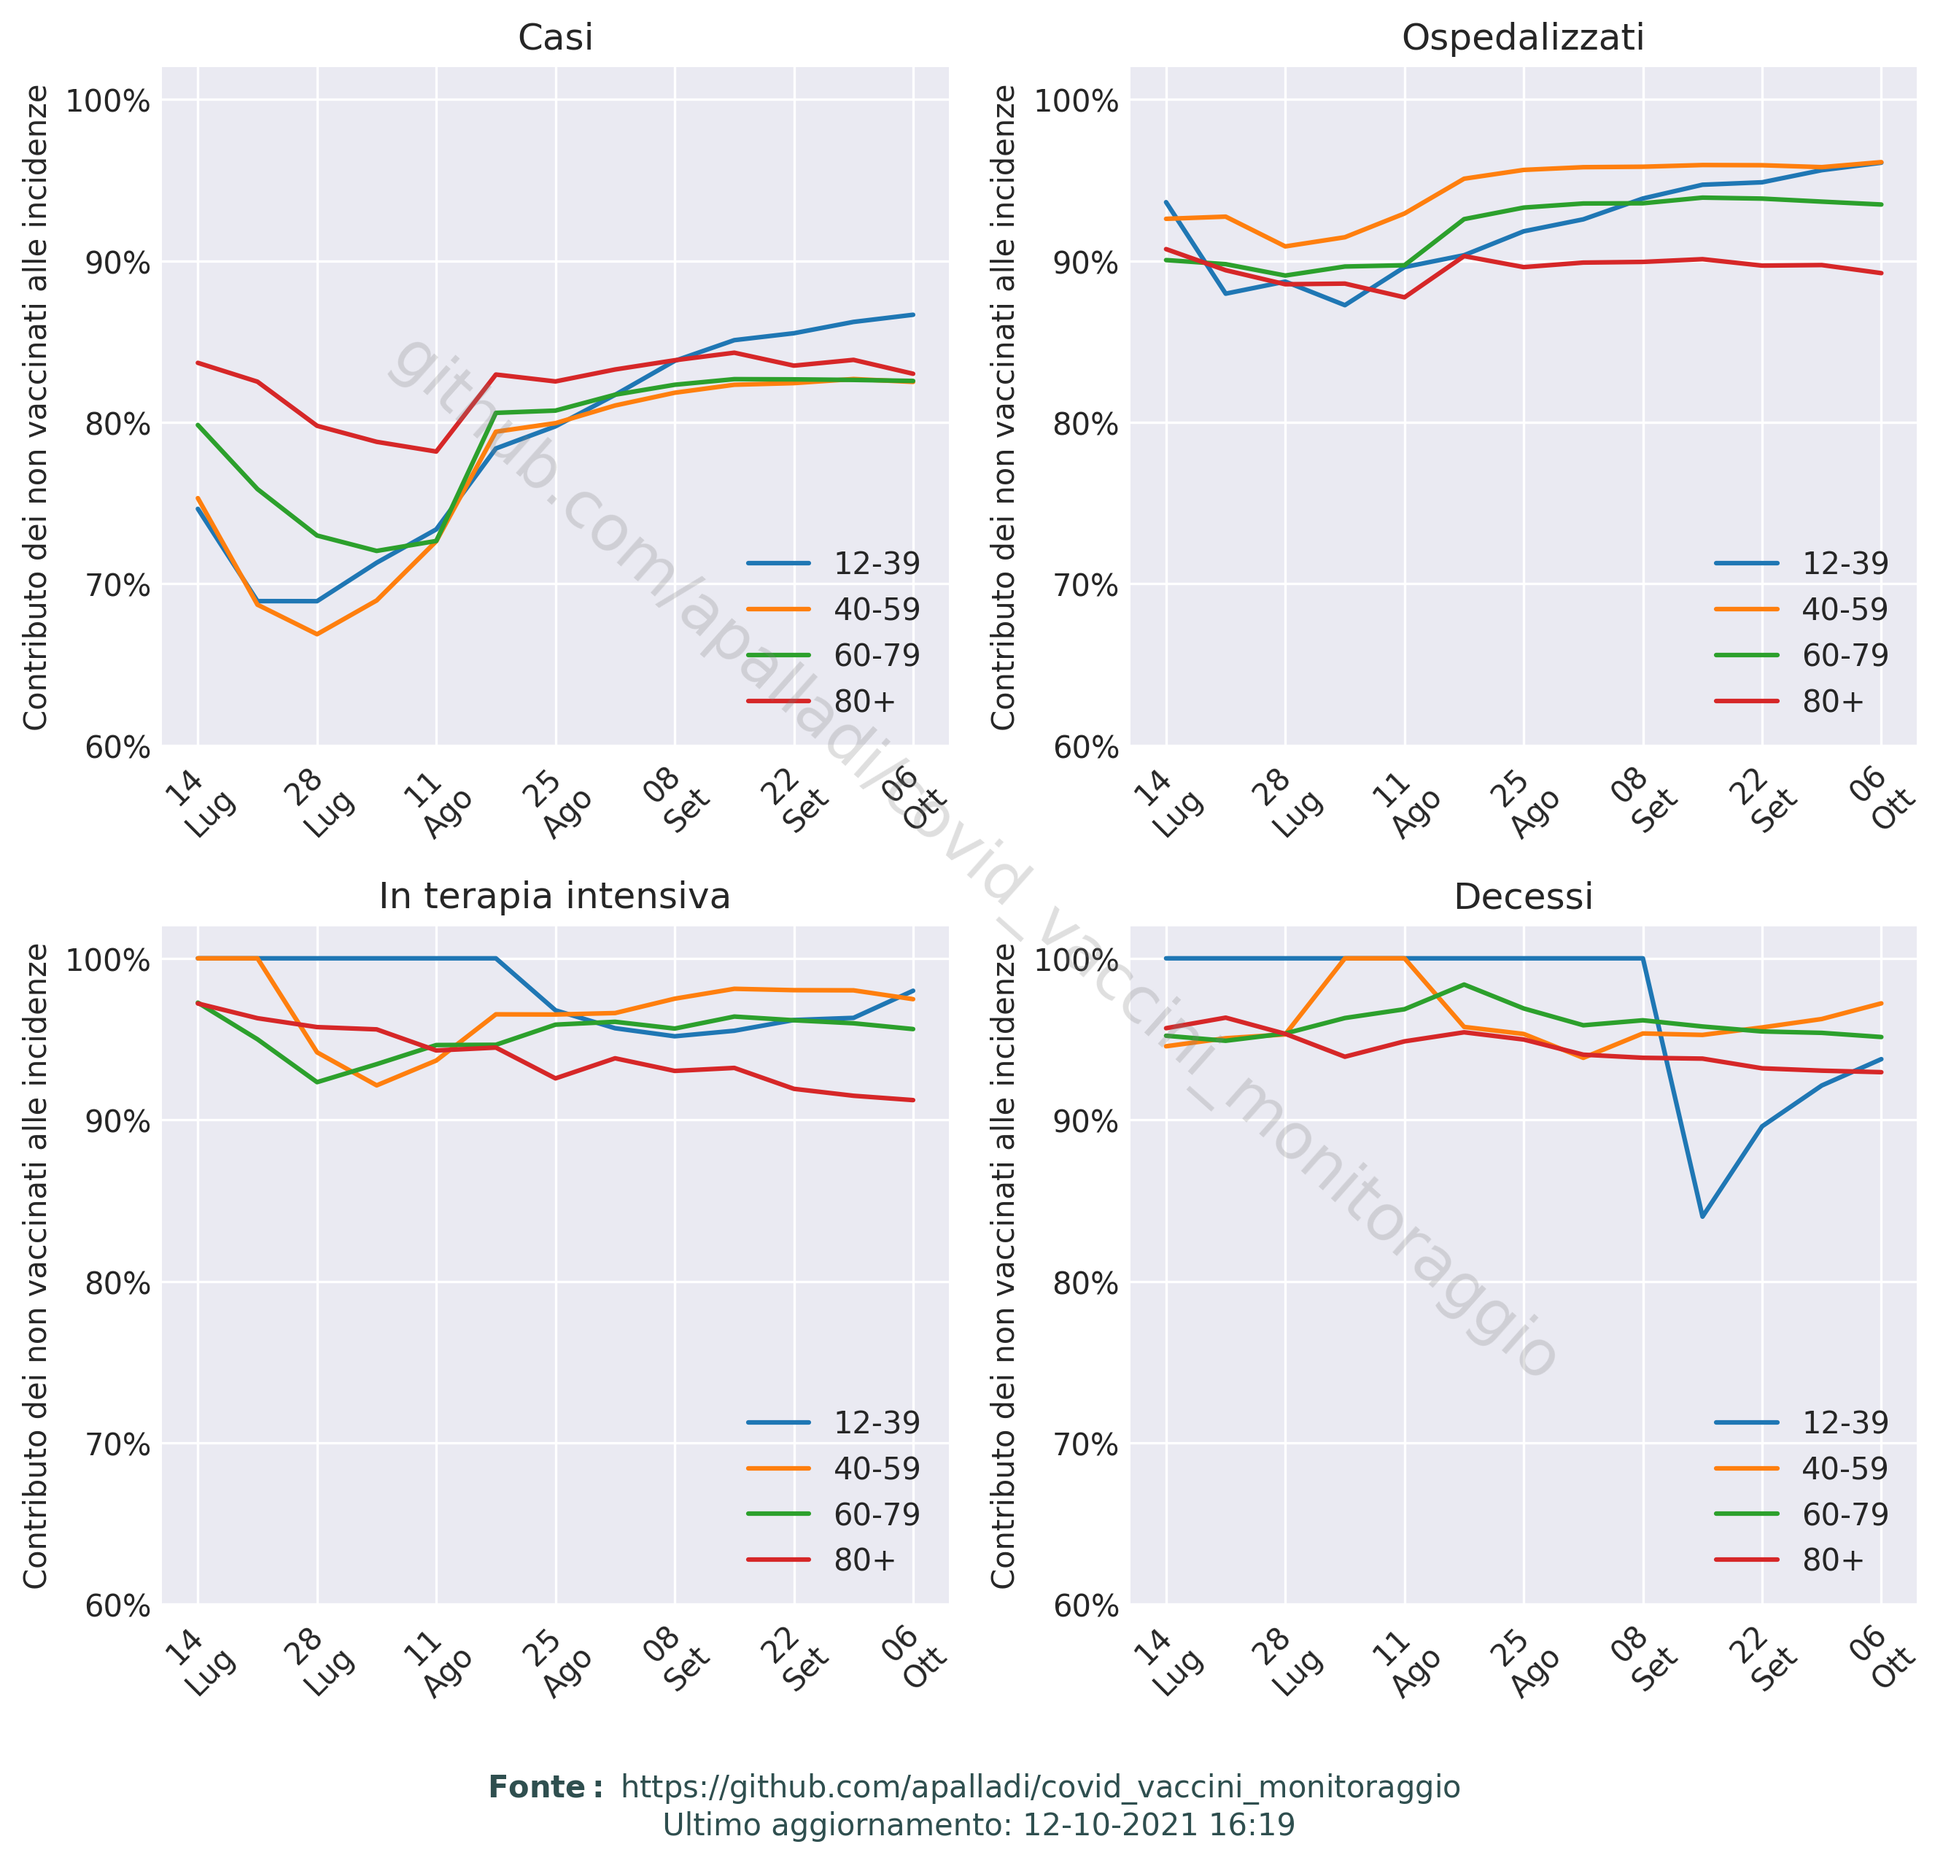
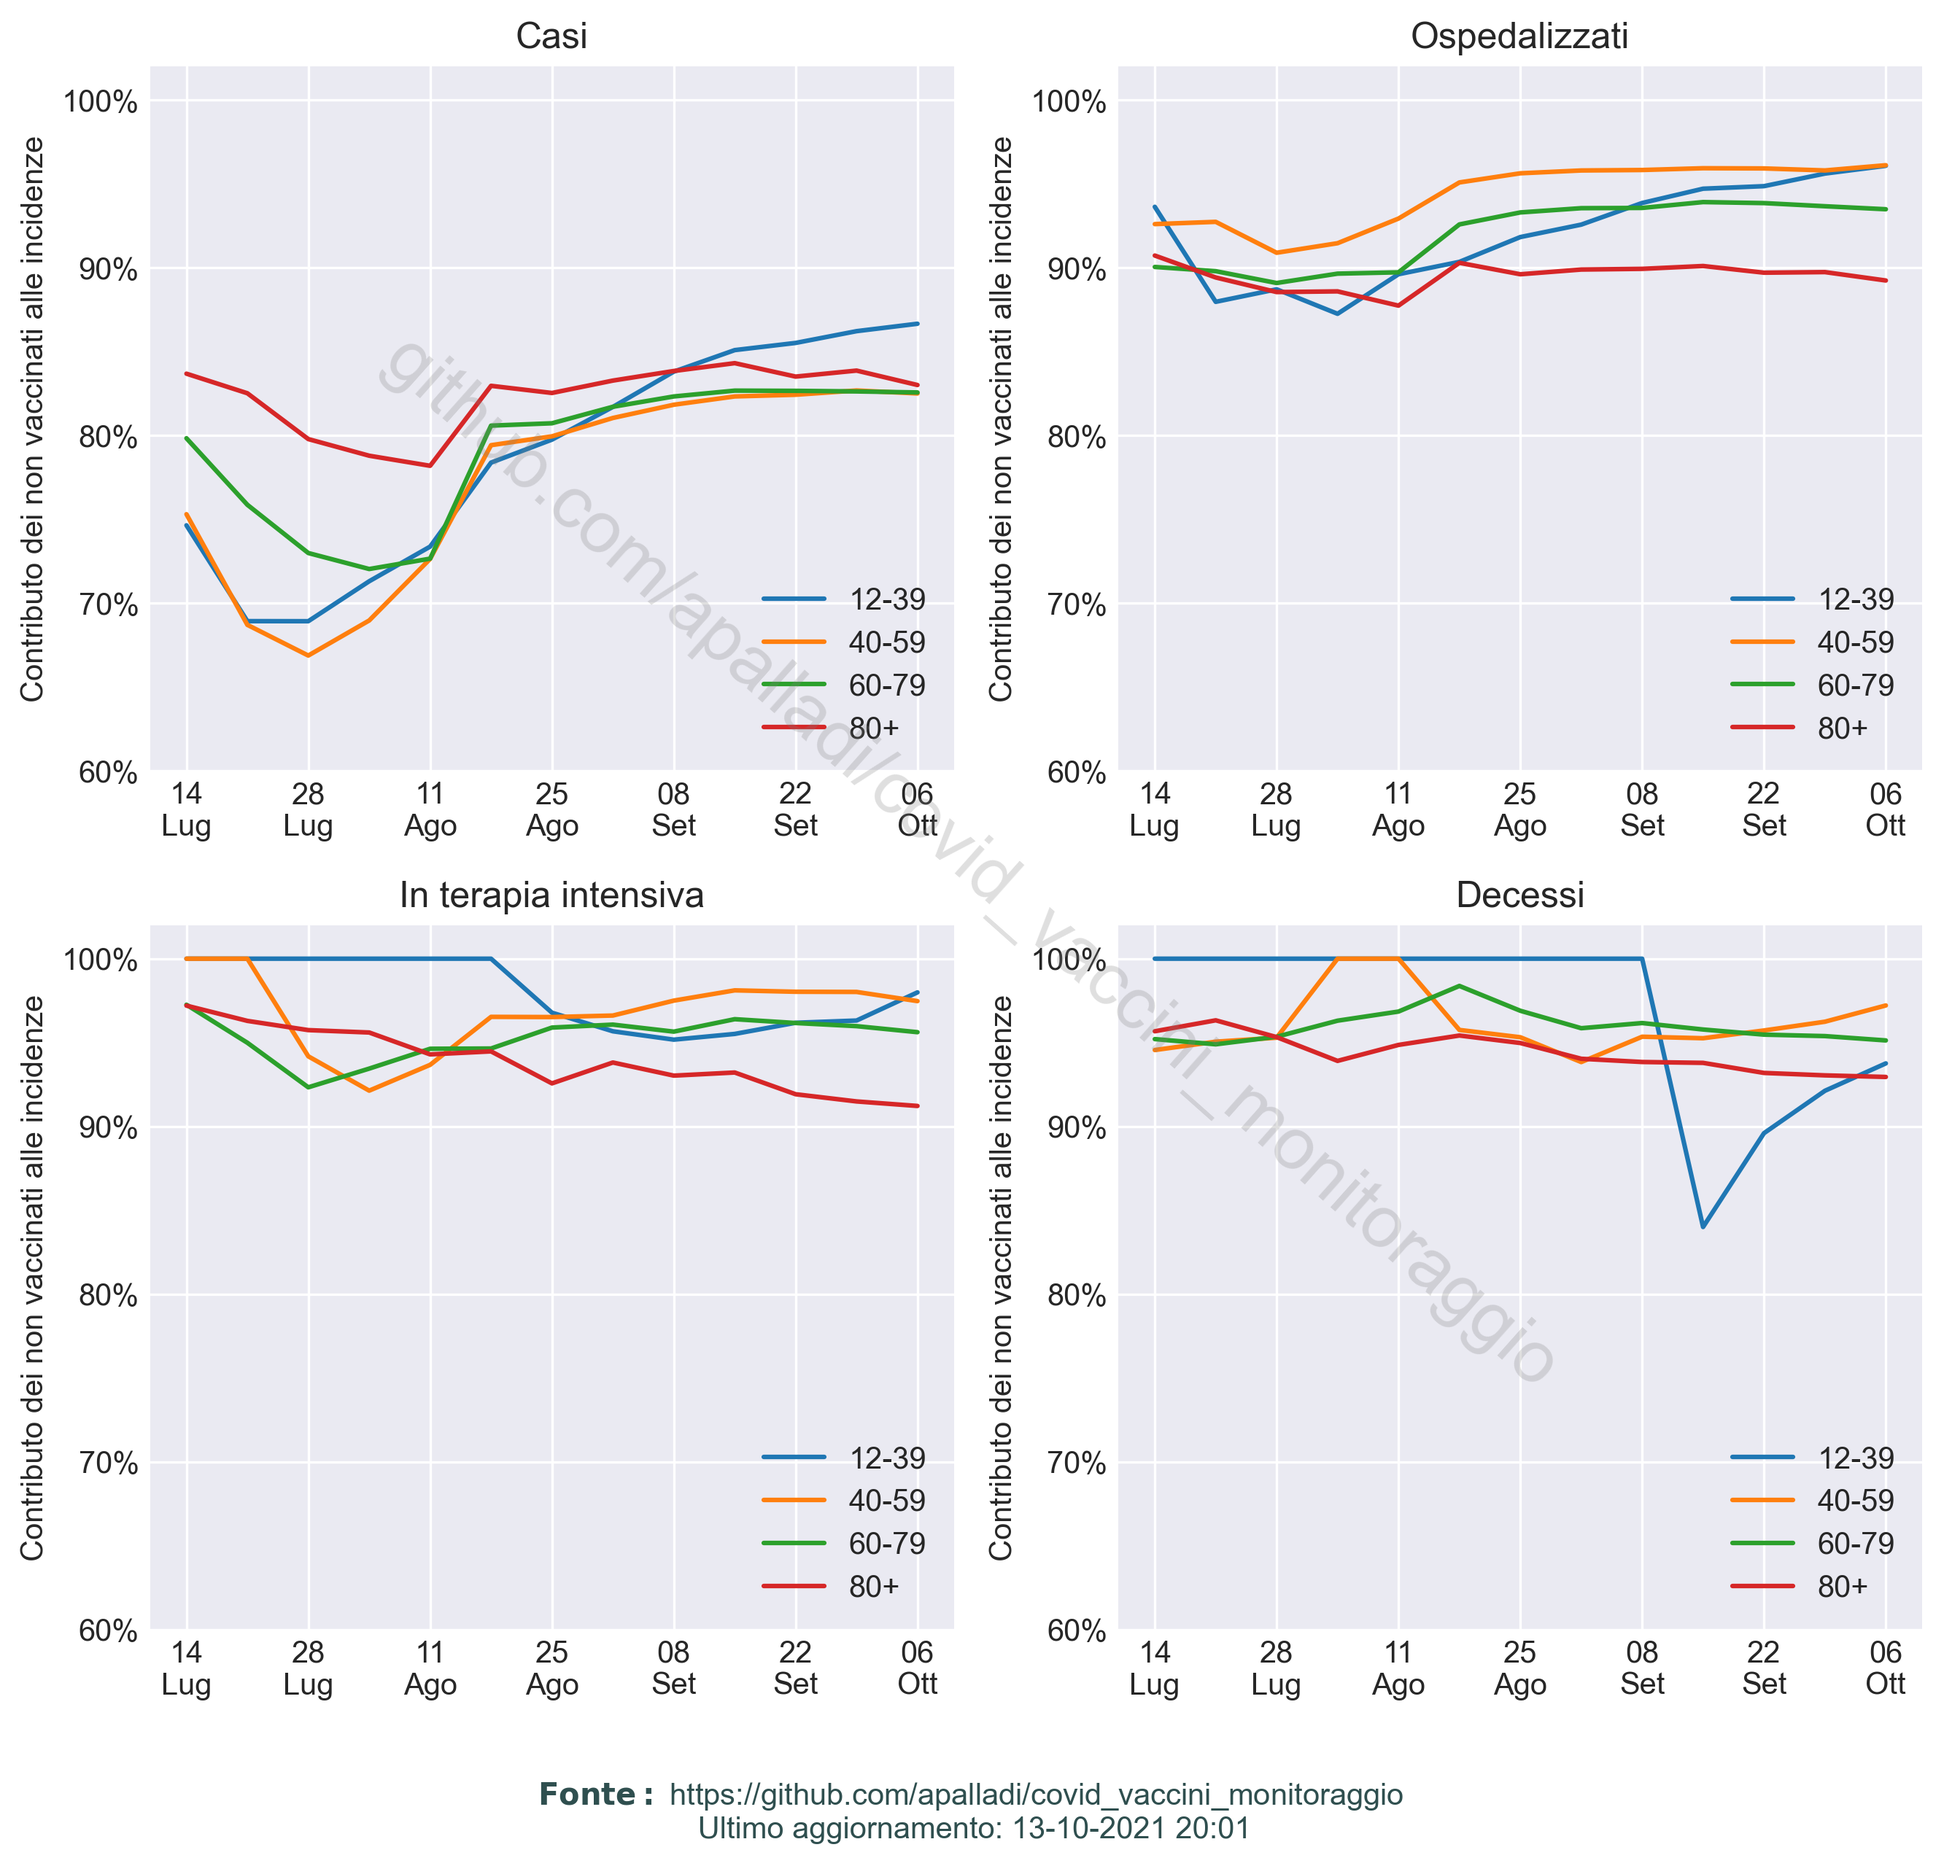
elimina rotazione xticks in andamento rapporti incidenze, per uniformare con gli altri grafici

diff --git a/scripts/andamento_rapporti_incidenze.py b/scripts/andamento_rapporti_incidenze.py
@@ -61,7 +61,7 @@ def get_ticks_labels():
 
 def add_to_plot(ticks, labels):
     """ Imposta proprietà grafico """
-    plt.xticks(ticks, labels, rotation="45")
+    plt.xticks(ticks, labels)
     plt.ylabel("Contributo dei non vaccinati alle incidenze")
     plt.legend(["12-39", "40-59", "60-79", "80+"], loc=4)
     plt.yticks(np.arange(50, 101, 10),
